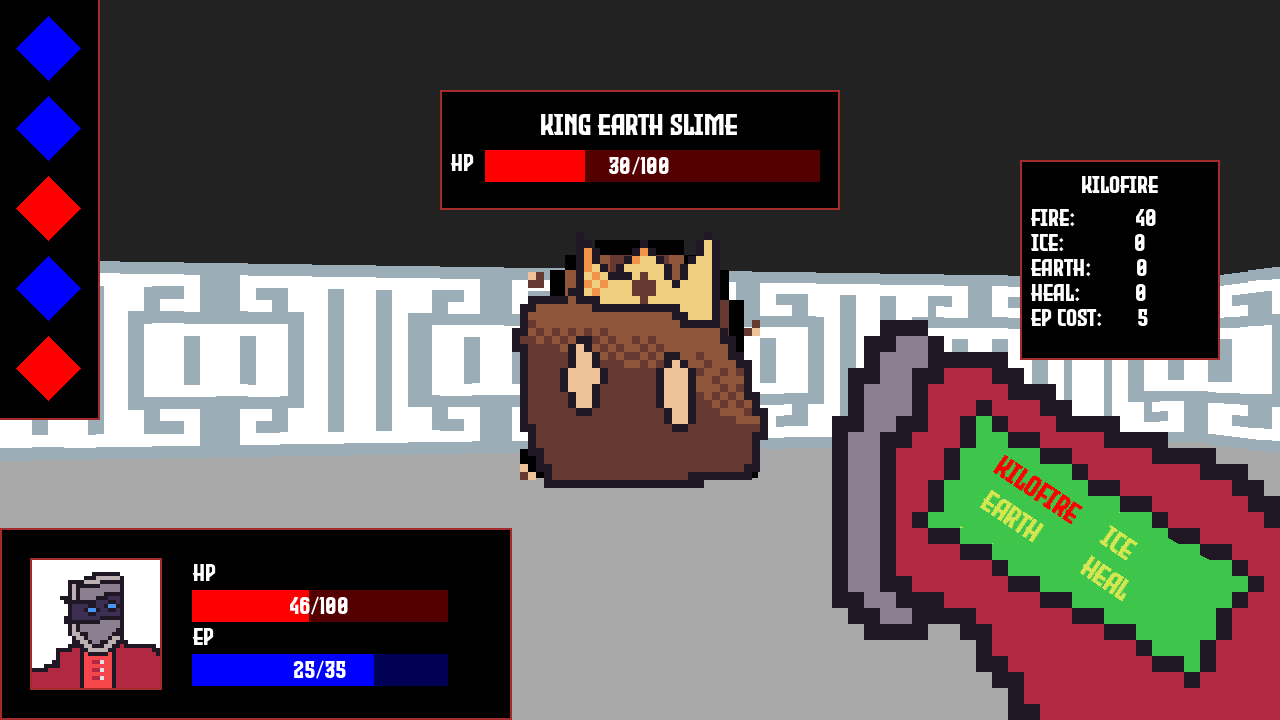
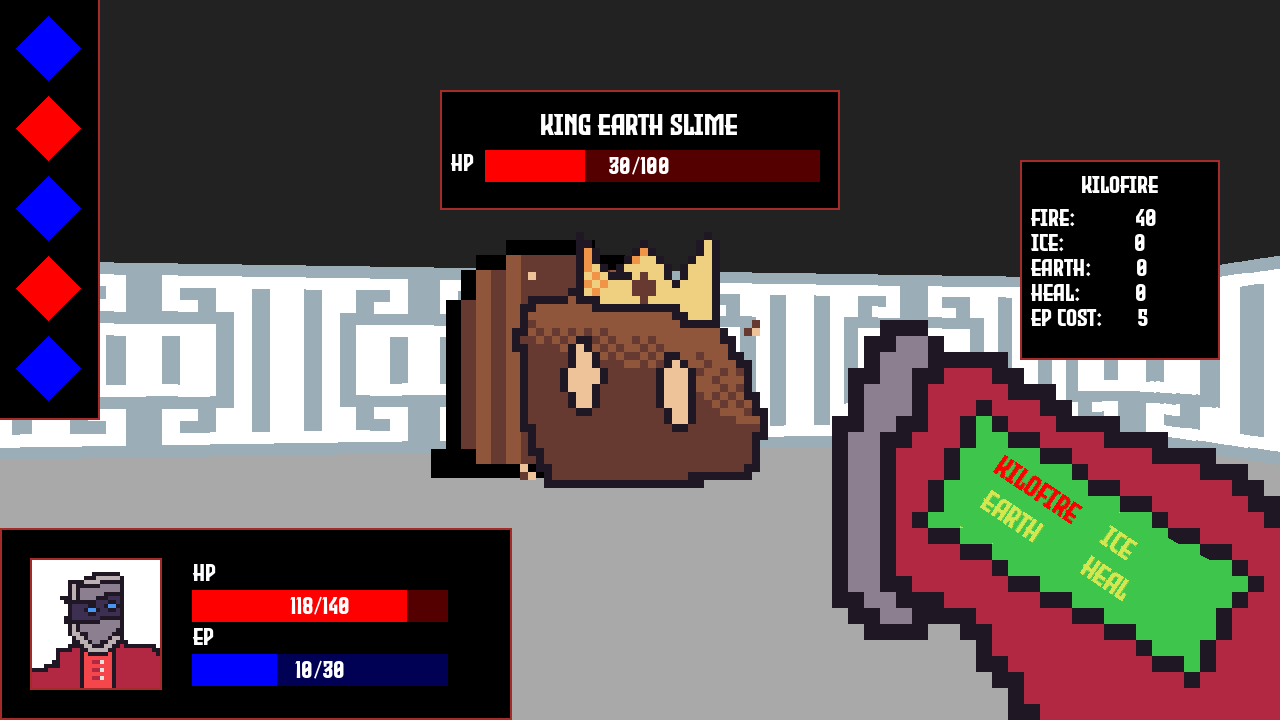
1.0 - Rinth
- Name - Rinth
- Replace temporary HP relic with Heart Container
- added uiImages dictionary
- Maze corner motif images
- Maze corner function to draw the motif onto different UI
-Finished Victory Screen
- Victory Screen with maze motif
- Controls and Settings with maze motif
- Redid start menu with backdrop image
- Start Screen functions
- Can return from victory screen
- Glass canon crash bug because attack not physical strength

diff --git a/main.py b/main.py
@@ -235,10 +235,14 @@ for i in sprites_to_load:
 icons = {"SpeedSyringe": pygame.image.load("Assets/Syringe.png").convert_alpha(),"HeavyPlating": pygame.image.load("Assets/HeavyPlating.png").convert_alpha(),
          "SpikeyBand": pygame.image.load("Assets/SpikeyBand.png").convert_alpha(),"FireShard": pygame.image.load("Assets/FireShard.png").convert_alpha(),
          "IceShard": pygame.image.load("Assets/IceShard.png").convert_alpha(),"EarthShard": pygame.image.load("Assets/EarthShard.png").convert_alpha(),
-         "HPUP": pygame.image.load("Assets/Sprite.png").convert_alpha(),"Battery": pygame.image.load("Assets/Battery.png").convert_alpha(),
+         "HeartContainer": pygame.image.load("Assets/heartContainer.png").convert_alpha(),"Battery": pygame.image.load("Assets/Battery.png").convert_alpha(),
          "OmniShard": pygame.image.load("Assets/OmniShard.png"),"FireOrb": pygame.image.load("Assets/FireOrb.png").convert_alpha(),
          "IceOrb": pygame.image.load("Assets/IceOrb.png").convert_alpha(),"EarthOrb": pygame.image.load("Assets/EarthOrb.png").convert_alpha(),
-         "GlassCanon": pygame.image.load("Assets/GlassCanon.png")}
+         "GlassCanon": pygame.image.load("Assets/GlassCanon.png"),}
+
+#UI images
+uiImages = {"greenCorner":pygame.image.load("Assets/GreenCorner.png").convert_alpha(),"yellowCorner":pygame.image.load("Assets/YellowCorner.png").convert_alpha(),
+            "start":pygame.image.load("Assets/startScreensaver.png").convert_alpha()}
 
 
 #Load relic objects
@@ -992,8 +996,19 @@ def draw_pause():
     draw_text(screen,"Quit",optionColours[4],640,575,fontSize=48,centre=True)
 
 
+#Maze motif for UI
+def draw_maze_corners(surface,cornerImg="greenCorner",scale=1):
+    cornerImg=pygame.transform.scale_by(uiImages[cornerImg],scale)
+    surface.blit(cornerImg,(0,0))
+    surface.blit(pygame.transform.rotate(cornerImg,90),(0,720-scale*128))
+    surface.blit(pygame.transform.rotate(cornerImg,180),(1280-scale*128,720-scale*128))
+    surface.blit(pygame.transform.rotate(cornerImg,270),((1280-scale*128,0)))
+
+
 def draw_controls():
     screen.fill("#33AA33")
+
+    draw_maze_corners(screen)
 
     draw_text(screen,"Controls","#d4e650",640,128,fontSize=64,centre=True)
 
@@ -1007,20 +1022,20 @@ def draw_controls():
 
 
 
-
-
 def draw_start_screen():
     screen.fill("#33AA33")
 
-    draw_text(screen,"TITLE OF THE GAME","#d4e650",640,128,fontSize=64,centre=True)
+    screen.blit(uiImages["start"],(0,0))
+    
+    draw_text(screen,"RINTH","#d4e650",256,70,fontSize=100,centre=True)
 
     startOptionColours = ["#d4e650","#d4e650","#d4e650","#d4e650","#d4e650"]
     startOptionColours[menu_selected["Start"]] = "#FF0000"
 
-    draw_text(screen,"Start",startOptionColours[0],640,200,fontSize=48,centre=True)
-    draw_text(screen,"Controls",startOptionColours[1],640,250,fontSize=48,centre=True)
-    draw_text(screen,"Settings",startOptionColours[2],640,300,fontSize=48,centre=True)
-    draw_text(screen,"Quit",startOptionColours[3],640,350,fontSize=48,centre=True)
+    draw_text(screen,"Start",startOptionColours[0],256,200,fontSize=48,centre=True)
+    draw_text(screen,"Controls",startOptionColours[1],256,250,fontSize=48,centre=True)
+    draw_text(screen,"Settings",startOptionColours[2],256,300,fontSize=48,centre=True)
+    draw_text(screen,"Quit",startOptionColours[3],256,350,fontSize=48,centre=True)
 
 
 
@@ -1028,6 +1043,8 @@ def draw_start_screen():
 #draw the settings menu
 def draw_settings():
     screen.fill("#3ec54b")
+
+    draw_maze_corners(screen)
 
     draw_text(screen,"Settings","#d4e650",640,128,fontSize=64,centre=True)
 
@@ -1049,6 +1066,9 @@ def draw_settings():
 #Victory displyed after the final boss (Robot King)
 def draw_victory():
     screen.fill("#FF5E00")
+
+    draw_maze_corners(screen,"yellowCorner",1.5)
+
     draw_text(screen,"VICTORY","#FFFF00",640,128,fontSize=64,centre=True)
 
     draw_text(screen,"You've managed the impossible and relieved the realm from the corrupt grasp of the Robot King","#FFFF00",640,240,fontSize=32,centre=True)
@@ -1751,11 +1771,25 @@ def main():
                 if event.type == pygame.QUIT:
                     running = False
                 if event.type == pygame.KEYDOWN:
-                    if event.key == pygame.K_SPACE:
-                        resetGame()
-                        game_state.set_value("Moving")
-                        draw_screen()
+                    
+                    if event.key == pygame.K_w or event.key == pygame.K_UP:
+                        menu_selected["Start"] = (menu_selected["Start"]-1)%4#cycle up, %4 to go back to the bottom
+                    if event.key == pygame.K_s or event.key == pygame.K_DOWN:
+                        menu_selected["Start"] = (menu_selected["Start"]+1)%4 #cycle down, %4 to go back to the top
 
+                    if event.key == pygame.K_SPACE:
+                        if menu_selected["Start"]==0:
+                            resetGame()
+                            game_state.set_value("Moving")
+                            draw_screen()
+                        elif menu_selected["Start"]==1:
+                            game_state.set_value("Controls")
+                            menu_selected["Controls"]="Start"
+                        elif menu_selected["Start"]==2:
+                            game_state.set_value("Settings")
+                            menu_selected["Settings-Back"]="Start"
+                        elif menu_selected["Start"]==3:
+                            running=False
             
             pygame.display.flip()
 
@@ -1809,6 +1843,9 @@ def main():
             for event in pygame.event.get():
                 if event.type == pygame.QUIT:
                     running = False
+                if event.type == pygame.KEYDOWN:
+                    if event.key == pygame.K_ESCAPE:
+                        game_state.set_value("Start")
             draw_victory()            
             pygame.display.flip()
 

diff --git a/battleElements.py b/battleElements.py
@@ -172,7 +172,7 @@ def load_relics():
     relicTempList.append(relic("Fire Shard","This will imporve your ability to use fire","(Increases fire affinity by 10%)","FireShard","fireAffinity",multVal=1.1))
     relicTempList.append(relic("Ice Shard","This will imporve your ability to use ice","(Increases ice affinity by 10%)","IceShard","iceAffinity",multVal=1.1))
     relicTempList.append(relic("Earth Shard","This will imporve your ability to use earth","(Increases earth affinity by 10%)","EarthShard","EarthAffinity",multVal=1.1))
-    relicTempList.append(relic("HP","This will increase your HP","(+10 HP)","HPUP","HP",addVal=10))
+    relicTempList.append(relic("Heart Container","This will increase your HP","(+10 HP)","HeartContainer","HP",addVal=10))
     relicTempList.append(relic("Battery","This will increase your energy capacity","(+5 EP)","Battery","EP",addVal=5))
 
     return relicTempList
@@ -231,7 +231,7 @@ def relic_apply_stat_change(playerObject: battle_container,relicObject: relic):
         playerObject.earthDefence = (playerObject.earthDefence + relicObject.addVal) * relicObject.multVal
     elif stat == "glassCanon":
         playerObject.speed = playerObject.speed * relicObject.multVal
-        playerObject.attack = playerObject.attack * relicObject.multVal
+        playerObject.physicalStrength = playerObject.physicalStrength * relicObject.multVal
         playerObject.defence = playerObject.defence / relicObject.multVal
 
 
